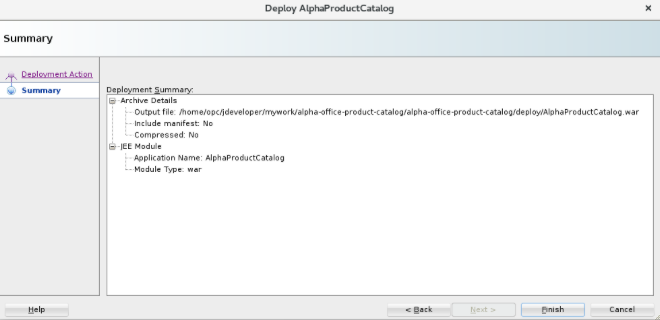
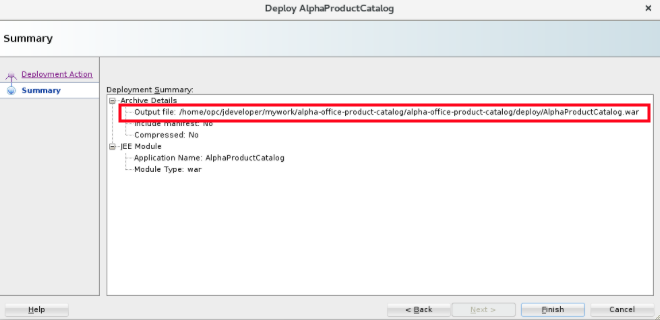
Lab 200 minor changes

Changed region(s): [[0.1818, 0.3125, 1.0, 0.4062]]

diff --git a/workshops/on-prem-wls-to-accs/LabGuide200.md b/workshops/on-prem-wls-to-accs/LabGuide200.md
@@ -17,6 +17,9 @@ This is the first of several labs that are part of the WebLogic Server On-Prem t
 ## Deploying the Application to the Oracle Application Cloud Service Instance
 
 ### **STEP 1**: Preparing the WAR file to be Deployed
+- Click Application tab and open Terminal. You need to pull latest code as follows.
+  
+    ![](images/200/pull_request.png)
 
 - In the Projects pane in Oracle JDeveloper, right-click Project and select Deploy > New Deployment Profile.
    
@@ -42,7 +45,7 @@ This is the first of several labs that are part of the WebLogic Server On-Prem t
     ![](images/200/war_5.png) 
 
 - In the Summary page, verify the values and click Finish.
-   
+  Note: You can find generated war file as follows. 
     ![](images/200/Summary.png)
 
 ### **STEP 2**: Uploading the war file to the  Application Container Cloud Service
